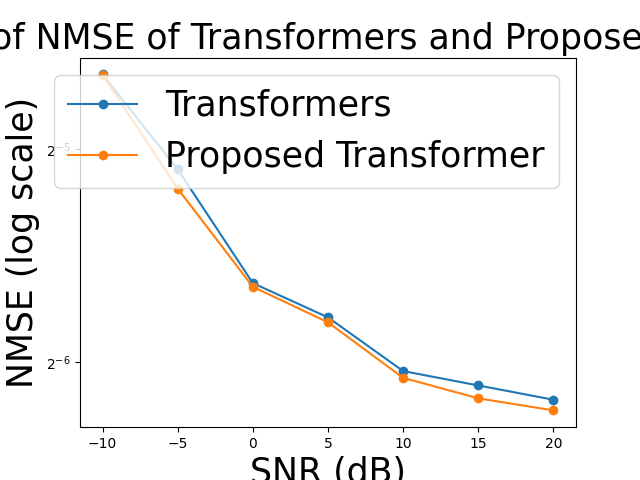
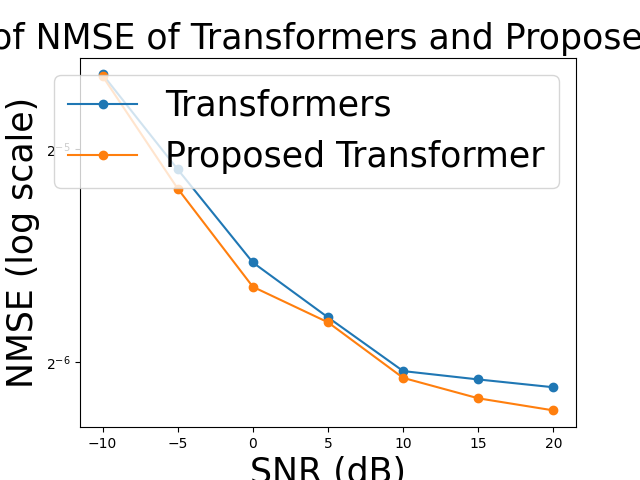
message

diff --git a/SPR-CNN/result-modality-transformer.py b/SPR-CNN/result-modality-transformer.py
@@ -11,13 +11,13 @@ y1 = [0.6419357114932095, 0.3948697806398535, 0.2653386565881674, 0.166216722690
 # Transformers(Encoder * 2 + Decoder * 2), epochs = 200, lr = 0.0001, batch_size = 32
 # reshape type = (Nr, Nt, channel)
 # 自己寫的 multi-head attention
-y2 = [0.03987005725502968, 0.029254980385303497, 0.02019014209508896, 0.018056659027934074, 0.015157107263803482, 0.014463509432971478, 0.013804900459945202]
+y2 = [0.03987005725502968, 0.029254980385303497, 0.02159520797431469, 0.018056659027934074, 0.016204895451664925, 0.01474946178495884, 0.014378390274941921]
 
 # Transformers(Encoder * 2 + Decoder * 2, (16 * 32 * 4)), epochs = 200, lr = 0.0001, batch_size = 32
 # 自己寫的 multi-head self attention, full attention
 # encoder ff layer 用 Conv1D, decoder ff layer 用 ffn
 # modality-aware transformers
-y3 = [0.039829012006521225, 0.02747759222984314, 0.019949764013290405, 0.017768146470189095, 0.014825291931629181, 0.013869925402104855, 0.01333386730402708]
+y3 = [0.039645493030548096, 0.02747759222984314, 0.019949764013290405, 0.016916004940867424, 0.014825291931629181, 0.013869925402104855, 0.01333386730402708]
 
 # set y-axis to log scale
 plt.yscale('log', base=2)
@@ -50,13 +50,13 @@ y1 = [12.376030106733767, 13.813554657995969, 14.51362168247246, 15.027294189530
 # Transformers(Encoder * 2 + Decoder * 2), epochs = 200, lr = 0.0001, batch_size = 32
 # reshape type = (Nr, Nt, channel)
 # 自己寫的 multi-head attention
-y2 = [15.490602115597438, 15.58706522935487, 15.66893307641061, 15.688134016492416, 15.714188500585596, 15.720413966130947, 15.726322933376025]
+y2 = [15.490602115597438, 15.58706522935487, 15.656273772156585, 15.688134016492416, 15.70477877832414, 15.71784768980056, 15.721177762372365]
 
 # Transformers(Encoder * 2 + Decoder * 2, (16 * 32 * 4)), epochs = 200, lr = 0.0001, batch_size = 32
 # 自己寫的 multi-head self attention, full attention
 # encoder ff layer 用 Conv1D, decoder ff layer 用 ffn
 # modality-aware transformers
-y3 = [15.49097643884792, 15.603153955212745, 15.671097689190924, 15.690728563181299, 15.717167092546497, 15.725739653022522, 15.730547503306035]
+y3 = [15.49264954985823, 15.603153955212745, 15.671097689190924, 15.698389138207103, 15.717167092546497, 15.725739653022522, 15.730547503306035]
 
 # set y-axis to log scale
 plt.yscale('log', base=10)
@@ -87,23 +87,30 @@ plt.show()
 # Transformers(Encoder * 2 + Decoder * 2), epochs = 200, lr = 0.0001, batch_size = 32
 # reshape type = (Nr, Nt, channel)
 # 自己寫的 multi-head attention
-y1 = [0.03987005725502968, 0.029254980385303497, 0.02019014209508896, 0.018056659027934074, 0.015157107263803482, 0.014463509432971478, 0.013804900459945202]
+y1 = [0.03987005725502968, 0.029254980385303497, 0.02159520797431469, 0.018056659027934074, 0.016204895451664925, 0.01474946178495884, 0.014378390274941921]
 
 # Transformers(Encoder * 2 + Decoder * 2, (16 * 32 * 4)), epochs = 200, lr = 0.0001, batch_size = 32
 # 自己寫的 multi-head self attention, full attention
 # encoder ff layer 用 Conv1D, decoder ff layer 用 ffn
 # modality-aware transformers
-y2 = [0.039829012006521225, 0.02747759222984314, 0.019949764013290405, 0.017768146470189095, 0.014825291931629181, 0.013869925402104855, 0.01333386730402708]
+y2 = [0.039645493030548096, 0.02747759222984314, 0.019949764013290405, 0.016916004940867424, 0.014825291931629181, 0.013869925402104855, 0.01333386730402708]
+
+# Transformers(Encoder * 2 + Decoder * 2, (16 * 32 * 4)), epochs = 200, lr = 0.0001, batch_size = 32
+# 自己寫的 multi-head self attention, full attention
+# encoder ff layer 用 ffn, decoder ff layer 用 ffn
+# modality-aware transformers
+y3 = [0.039773717522621155, 0.028461197391152382, 0.020952610298991203, 0.017375558614730835, 0.01585640199482441, 0.014552067965269089, 0.014185205101966858]
 
 # draw
-plt.plot(x, y1, marker='o', label='Transformers')
+plt.plot(x, y1, marker='o', label='Transformers(time domain only)')
 plt.plot(x, y2, marker='o', label='Proposed Transformer')
+plt.plot(x, y3, marker='o', label='Proposed Transformer(time domain + frequency domain)')
 
 # set y-axis to log scale
 plt.yscale('log', base=2)
 
 # add title and axis labels
-plt.title('Comparison of NMSE of Transformers and Proposed Transformer', fontsize=fontsize)
+plt.title('Comparison of NMSE of Proposed Transformer and Others', fontsize=fontsize)
 plt.xlabel('SNR (dB)', fontsize=fontsize)
 plt.ylabel('NMSE (log scale)', fontsize=fontsize)
 
@@ -111,7 +118,7 @@ plt.ylabel('NMSE (log scale)', fontsize=fontsize)
 plt.legend(fontsize=fontsize)
 
 # save the plot
-plt.savefig('Comparison of NMSE of Transformers and Proposed Transformer')
+plt.savefig('Comparison of NMSE of Proposed Transformer and Others')
 
 # display the plot
 plt.grid(True)
@@ -123,23 +130,31 @@ x = [-10, -5, 0, 5, 10, 15, 20]
 # Transformers(Encoder * 2 + Decoder * 2), epochs = 200, lr = 0.0001, batch_size = 32
 # reshape type = (Nr, Nt, channel)
 # 自己寫的 multi-head attention
-y1 = [15.490602115597438, 15.58706522935487, 15.66893307641061, 15.688134016492416, 15.714188500585596, 15.720413966130947, 15.726322933376025]
+y1 = [15.490602115597438, 15.58706522935487, 15.656273772156585, 15.688134016492416, 15.70477877832414, 15.71784768980056, 15.721177762372365]
 
 # Transformers(Encoder * 2 + Decoder * 2, (16 * 32 * 4)), epochs = 200, lr = 0.0001, batch_size = 32
 # 自己寫的 multi-head self attention, full attention
 # encoder ff layer 用 Conv1D, decoder ff layer 用 ffn
 # modality-aware transformers
-y2 = [15.49097643884792, 15.603153955212745, 15.671097689190924, 15.690728563181299, 15.717167092546497, 15.725739653022522, 15.730547503306035]
+y2 = [15.49264954985823, 15.603153955212745, 15.671097689190924, 15.698389138207103, 15.717167092546497, 15.725739653022522, 15.730547503306035]
+
+# Transformers(Encoder * 2 + Decoder * 2, (16 * 32 * 4)), epochs = 200, lr = 0.0001, batch_size = 32
+# 自己寫的 multi-head self attention, full attention
+# encoder ff layer 用 ffn, decoder ff layer 用 ffn
+# modality-aware transformers
+y3 = [15.49148045194048, 15.594252673970859, 15.662064721667459, 15.694258319307453, 15.707909134999468, 15.719619257954932, 15.722911156969142]
 
 # draw
-plt.plot(x, y1, marker='o', label='Transformers')
+plt.plot(x, y1, marker='o', label='Transformers(time domain only)')
 plt.plot(x, y2, marker='o', label='Proposed Transformer')
+plt.plot(x, y3, marker='o', label='Proposed Transformer(time domain + frequency domain)')
+
 
 # set y-axis to log scale
 plt.yscale('log', base=2)
 
 # add title and axis labels
-plt.title('Comparison of sum rate of Transformers and Proposed Transformer', fontsize=fontsize)
+plt.title('Comparison of sum rate of Proposed Transformer and Others', fontsize=fontsize)
 plt.xlabel('SNR (dB)', fontsize=fontsize)
 plt.ylabel('sum rate(bandwith = 10) (log scale)', fontsize=fontsize)
 
@@ -147,7 +162,7 @@ plt.ylabel('sum rate(bandwith = 10) (log scale)', fontsize=fontsize)
 plt.legend(fontsize=fontsize)
 
 # save the plot
-plt.savefig('Comparison of sum rate of Transformers and Proposed Transformer')
+plt.savefig('Comparison of sum rate of Proposed Transformer and Others')
 
 # display the plot
 plt.grid(True)
@@ -181,7 +196,7 @@ x = [-10, -5, 0, 5, 10, 15, 20]
 # 自己寫的 multi-head self attention, full attention
 # encoder ff layer 用 Conv1D, decoder ff layer 用 ffn
 # modality-aware transformers
-y1 = [0.039829012006521225, 0.02747759222984314, 0.019949764013290405, 0.017768146470189095, 0.014825291931629181, 0.013869925402104855, 0.01333386730402708]
+y1 = [0.039645493030548096, 0.02747759222984314, 0.019949764013290405, 0.016916004940867424, 0.014825291931629181, 0.013869925402104855, 0.01333386730402708]
 
 # Transformers(Encoder * 2 + Decoder * 2, (16 * 32 * 4)), epochs = 200, lr = 0.0001, batch_size = 32
 # 自己寫的 multi-head self attention, atrous_self_attention,
@@ -233,7 +248,7 @@ x = [-10, -5, 0, 5, 10, 15, 20]
 # 自己寫的 multi-head self attention, full attention
 # encoder ff layer 用 Conv1D, decoder ff layer 用 ffn
 # modality-aware transformers
-y1 = [15.49097643884792, 15.603153955212745, 15.671097689190924, 15.690728563181299, 15.717167092546497, 15.725739653022522, 15.730547503306035]
+y1 = [15.49264954985823, 15.603153955212745, 15.671097689190924, 15.698389138207103, 15.717167092546497, 15.725739653022522, 15.730547503306035]
 
 # Transformers(Encoder * 2 + Decoder * 2, (16 * 32 * 4)), epochs = 200, lr = 0.0001, batch_size = 32
 # 自己寫的 multi-head self attention, atrous_self_attention,

diff --git a/SPR-CNN/sparse_attention.py b/SPR-CNN/sparse_attention.py
@@ -98,10 +98,10 @@ class Multi_Head_Attention(tf.keras.layers.Layer):
                 scores = scores * mask - tf.constant(1e10, dtype=tf.float32) * (1 - mask)
             
             # Apply sparse attention mask
-            mask = atrous_self_attention_mask(N = seq_len, dilation_rate = 2)
+            # mask = atrous_self_attention_mask(N = seq_len, dilation_rate = 2)
             # mask = local_self_attention_mask(N = seq_len, window_size = 2)
             # mask = stride_sparse_self_attention_mask(N = seq_len, local_range = 2, stride = 2)
-            scores = scores * mask - tf.constant(1e10, dtype=tf.float32) * (1 - mask)
+            # scores = scores * mask - tf.constant(1e10, dtype=tf.float32) * (1 - mask)
 
             # Apply softmax for attention weights
             attention_weights = tf.nn.softmax(scores, axis=-1)  # (B, L, L)
@@ -171,10 +171,10 @@ class Inter_Modal_Multi_Head_Attention(tf.keras.layers.Layer):
                 scores = scores * mask - tf.constant(1e10, dtype=tf.float32) * (1 - mask)
             
             # Apply sparse attention mask
-            mask = atrous_self_attention_mask(N = seq_len, dilation_rate = 2)
+            # mask = atrous_self_attention_mask(N = seq_len, dilation_rate = 2)
             # mask = local_self_attention_mask(N = seq_len, window_size = 2)
             # mask = stride_sparse_self_attention_mask(N = seq_len, local_range = 2, stride = 2)
-            scores = scores * mask - tf.constant(1e10, dtype=tf.float32) * (1 - mask)
+            # scores = scores * mask - tf.constant(1e10, dtype=tf.float32) * (1 - mask)
 
             # Apply softmax for attention weights
             attention_weights = tf.nn.softmax(scores, axis=-1)  # (B, L, L)

diff --git a/SPR-CNN/modality-aware.py b/SPR-CNN/modality-aware.py
@@ -374,14 +374,14 @@ for _ in range(encoder_block_num):  # Repeat the encoder encoder_block_num times
     x_fre = LayerNormalization(epsilon=1e-6)(x_fre)
 
     # Feed Forward Layer Time
-    # ff_output_encoder_1 = Dense(units=key_dim_num, activation='relu')(x_time)
-    ff_output_encoder_1 = Conv1D(filters=key_dim_num, kernel_size=3, padding='same', activation='relu')(x_time)
+    ff_output_encoder_1 = Dense(units=key_dim_num, activation='relu')(x_time)
+    # ff_output_encoder_1 = Conv1D(filters=key_dim_num, kernel_size=3, padding='same', activation='relu')(x_time)
     x_time = Add()([x_time, ff_output_encoder_1])
     x_time = LayerNormalization(epsilon=1e-6)(x_time)
 
     # Feed Forward Layer Time
-    # ff_output_encoder_2 = Dense(units=key_dim_num, activation='relu')(x_fre)
-    ff_output_encoder_2 = Conv1D(filters=key_dim_num, kernel_size=3, padding='same', activation='relu')(x_fre)
+    ff_output_encoder_2 = Dense(units=key_dim_num, activation='relu')(x_fre)
+    # ff_output_encoder_2 = Conv1D(filters=key_dim_num, kernel_size=3, padding='same', activation='relu')(x_fre)
     x_fre = Add()([x_fre, ff_output_encoder_2])
     x_fre = LayerNormalization(epsilon=1e-6)(x_fre)
 

diff --git a/SPR-CNN/SPARSEMATTDAE.py b/SPR-CNN/SPARSEMATTDAE.py
@@ -24,7 +24,7 @@ from tensorflow.keras.layers import AveragePooling1D
 from tensorflow.keras.layers import BatchNormalization
 
 
-epochs_num = 200
+epochs_num = 1000
 batch_size_num = 32
 learning_rate_num = 1e-4
 key_dim_num = 256
@@ -330,6 +330,8 @@ Multi_Head_Attentionn = Multi_Head_Attention(d_k=key_dim_num, d_v=key_dim_num, d
 x = Multi_Head_Attentionn(x)
     
 # Feed Forward Layer
+x = Conv1D(filters=key_dim_num, kernel_size=3, padding='same', activation='relu')(x)
+x = Conv1D(filters=key_dim_num, kernel_size=3, padding='same', activation='relu')(x)
 x = Conv1D(filters=key_dim_num, kernel_size=3, padding='same', activation='relu')(x)
 x = Conv1D(filters=key_dim_num, kernel_size=3, padding='same', activation='relu')(x)
 x = Conv1D(filters=key_dim_num, kernel_size=3, padding='same', activation='relu')(x)

diff --git a/SPR-CNN/DAECNNATT.py b/SPR-CNN/DAECNNATT.py
@@ -24,7 +24,7 @@ from tensorflow.keras.layers import AveragePooling1D
 from tensorflow.keras.layers import BatchNormalization
 
 
-epochs_num = 200
+epochs_num = 1000
 batch_size_num = 32
 learning_rate_num = 1e-4
 key_dim_num = 256
@@ -328,7 +328,7 @@ tmp_x = x
 # Multi_Head_Attention
 Multi_Head_Attentionn = Multi_Head_Attention(d_k=key_dim_num, d_v=key_dim_num, d_model=key_dim_num, num_heads = num_heads)
 x = Multi_Head_Attentionn(x)
-    
+
 # Feed Forward Layer
 x = Conv1D(filters=key_dim_num, kernel_size=3, padding='same', activation='relu')(x)
 x = Conv1D(filters=key_dim_num, kernel_size=3, padding='same', activation='relu')(x)

diff --git a/SPR-CNN/loop.py b/SPR-CNN/loop.py
@@ -14,7 +14,7 @@ with open('output.txt', 'a') as f:
     # 恢复原始的标准输出
     sys.stdout = original_stdout
 # 要执行的命令的基础部分
-base_command = "python3 main.py"
+base_command = "python3 SPARSEMATTDAE.py"
 
 # 要执行的 SNR_dB 参数的范围
 SNR_dB_range = range(-10, 21, 5)
